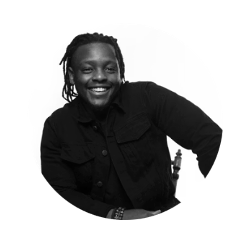
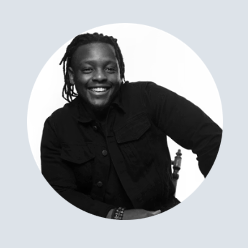
Fix team photos: uniform circles, center Craig, board Read more
Flatten cutout PNGs, crop all portraits as circles, recenter Craig’s
asset, and collapse Board Members behind a Read more toggle.

diff --git a/gcc-site/src/components/TeamSection.tsx b/gcc-site/src/components/TeamSection.tsx
@@ -1,0 +1,134 @@
+"use client";
+
+import Image from "next/image";
+import { useId, useState, type CSSProperties } from "react";
+import type { TeamMember } from "@/lib/content";
+
+function LinkedInIcon() {
+  return (
+    <svg width="14" height="14" viewBox="0 0 24 24" aria-hidden="true">
+      <rect x="2" y="2" width="20" height="20" rx="3" fill="currentColor" />
+      <path
+        fill="#fff"
+        d="M7.2 9.4h2.1v7.2H7.2V9.4Zm1.05-3.4a1.25 1.25 0 1 1 0 2.5 1.25 1.25 0 0 1 0-2.5ZM11.1 9.4h2v1h.03c.28-.53.97-1.1 2-1.1 2.14 0 2.54 1.4 2.54 3.23v4.07h-2.1v-3.6c0-.86-.02-1.96-1.2-1.96-1.2 0-1.38.93-1.38 1.9v3.66h-2.1V9.4Z"
+      />
+    </svg>
+  );
+}
+
+function photoStyle(name: string): CSSProperties {
+  if (name === "Craig Shalekoff") {
+    return {
+      objectFit: "cover",
+      objectPosition: "center center",
+      filter: "grayscale(1)",
+    };
+  }
+  if (name === "Lizelle McLaughlin" || name === "Heather Wallace") {
+    return {
+      objectFit: "cover",
+      objectPosition: "center 18%",
+      filter: "grayscale(1)",
+    };
+  }
+  if (name === "Frank Kilbourn") {
+    return {
+      objectFit: "cover",
+      objectPosition: "center 30%",
+      filter: "grayscale(1)",
+    };
+  }
+  return {
+    objectFit: "cover",
+    objectPosition: "center top",
+    filter: "grayscale(1)",
+  };
+}
+
+function MemberCard({ member }: { member: TeamMember }) {
+  return (
+    <div>
+      <div className="team-card__photo">
+        <Image src={member.img} alt={member.name} fill sizes="108px" style={photoStyle(member.name)} />
+      </div>
+      <div className="team-card__name-row">
+        <div className="team-card__name">{member.name}</div>
+        {member.linkedin ? (
+          <a
+            className="team-linkedin"
+            href={member.linkedin}
+            target="_blank"
+            rel="noopener noreferrer"
+            aria-label={`${member.name} on LinkedIn`}
+          >
+            <LinkedInIcon />
+          </a>
+        ) : null}
+      </div>
+      <div className="mono team-card__role">{member.role}</div>
+    </div>
+  );
+}
+
+function BoardAccordion({ members }: { members: TeamMember[] }) {
+  const [open, setOpen] = useState(false);
+  const panelId = useId();
+
+  return (
+    <div className="rise" style={{ marginTop: 8 }}>
+      <button
+        type="button"
+        className="board-toggle"
+        aria-expanded={open}
+        aria-controls={panelId}
+        onClick={() => setOpen((v) => !v)}
+      >
+        <span className="mono team-group-label" style={{ margin: 0 }}>
+          Board Members
+        </span>
+        <span className="mono board-toggle__action">
+          {open ? "Hide" : "Read more"}
+          <span className={`board-toggle__chevron${open ? " is-open" : ""}`} aria-hidden />
+        </span>
+      </button>
+
+      <div
+        id={panelId}
+        role="region"
+        aria-hidden={!open}
+        className={`board-panel${open ? " is-open" : ""}`}
+      >
+        <div className="team-grid" style={{ paddingTop: 18 }}>
+          {members.map((m) => (
+            <MemberCard key={`board-${m.name}`} member={m} />
+          ))}
+        </div>
+      </div>
+    </div>
+  );
+}
+
+export default function TeamSection({
+  groups,
+}: {
+  groups: { title: string; members: TeamMember[] }[];
+}) {
+  const visible = groups.filter((g) => g.title !== "Board Members");
+  const board = groups.find((g) => g.title === "Board Members");
+
+  return (
+    <>
+      {visible.map((group) => (
+        <div key={group.title}>
+          <p className="mono team-group-label rise">{group.title}</p>
+          <div className="team-grid rise">
+            {group.members.map((m) => (
+              <MemberCard key={`${group.title}-${m.name}`} member={m} />
+            ))}
+          </div>
+        </div>
+      ))}
+      {board ? <BoardAccordion members={[...board.members]} /> : null}
+    </>
+  );
+}

diff --git a/gcc-site/src/app/page.tsx b/gcc-site/src/app/page.tsx
@@ -1,5 +1,6 @@
 import Image from "next/image";
 import SaMap from "@/components/SaMap";
+import TeamSection from "@/components/TeamSection";
 import {
   awards,
   benefits,
@@ -26,18 +27,6 @@ import {
   whoBenefits,
   whySa,
 } from "@/lib/content";
-
-function LinkedInIcon() {
-  return (
-    <svg width="14" height="14" viewBox="0 0 24 24" aria-hidden="true">
-      <rect x="2" y="2" width="20" height="20" rx="3" fill="currentColor" />
-      <path
-        fill="#fff"
-        d="M7.2 9.4h2.1v7.2H7.2V9.4Zm1.05-3.4a1.25 1.25 0 1 1 0 2.5 1.25 1.25 0 0 1 0-2.5ZM11.1 9.4h2v1h.03c.28-.53.97-1.1 2-1.1 2.14 0 2.54 1.4 2.54 3.23v4.07h-2.1v-3.6c0-.86-.02-1.96-1.2-1.96-1.2 0-1.38.93-1.38 1.9v3.66h-2.1V9.4Z"
-      />
-    </svg>
-  );
-}
 
 function SectionLabel({ children, onDark = false }: { children: React.ReactNode; onDark?: boolean }) {
   return (
@@ -304,45 +293,7 @@ export default function HomePage() {
               including three successful companies later acquired by international groups.
             </Lead>
 
-            {teamGroups.map((group) => (
-              <div key={group.title}>
-                <p className="mono team-group-label rise">{group.title}</p>
-                <div className="team-grid rise">
-                  {group.members.map((m) => (
-                    <div key={`${group.title}-${m.name}`}>
-                      <div className="team-card__photo">
-                        <Image
-                          src={m.img}
-                          alt={m.name}
-                          fill
-                          sizes="108px"
-                          style={{
-                            objectFit: "cover",
-                            objectPosition: "center top",
-                            filter: "grayscale(1)",
-                          }}
-                        />
-                      </div>
-                      <div className="team-card__name-row">
-                        <div className="team-card__name">{m.name}</div>
-                        {m.linkedin ? (
-                          <a
-                            className="team-linkedin"
-                            href={m.linkedin}
-                            target="_blank"
-                            rel="noopener noreferrer"
-                            aria-label={`${m.name} on LinkedIn`}
-                          >
-                            <LinkedInIcon />
-                          </a>
-                        ) : null}
-                      </div>
-                      <div className="mono team-card__role">{m.role}</div>
-                    </div>
-                  ))}
-                </div>
-              </div>
-            ))}
+            <TeamSection groups={[...teamGroups]} />
           </div>
         </section>
 

diff --git a/gcc-site/src/app/globals.css b/gcc-site/src/app/globals.css
@@ -300,8 +300,65 @@ button {
   aspect-ratio: 1;
   margin-inline: auto;
   overflow: hidden;
-  border-radius: 18px;
+  border-radius: 50%;
   background: #dde3e9;
+}
+
+.board-toggle {
+  display: flex;
+  width: 100%;
+  align-items: center;
+  justify-content: space-between;
+  gap: 16px;
+  margin-top: 40px;
+  padding: 16px 0;
+  border: none;
+  border-top: 1px solid rgba(14, 27, 42, 0.1);
+  border-bottom: 1px solid rgba(14, 27, 42, 0.1);
+  background: transparent;
+  cursor: pointer;
+  text-align: left;
+  color: inherit;
+}
+
+.board-toggle__action {
+  font-size: 11px;
+  letter-spacing: 0.1em;
+  color: rgba(14, 27, 42, 0.5);
+  display: inline-flex;
+  align-items: center;
+  gap: 8px;
+  text-transform: uppercase;
+}
+
+.board-toggle__chevron {
+  display: inline-block;
+  width: 0;
+  height: 0;
+  border-left: 5px solid transparent;
+  border-right: 5px solid transparent;
+  border-top: 6px solid rgba(14, 27, 42, 0.45);
+  transition: transform 0.25s ease;
+}
+
+.board-toggle__chevron.is-open {
+  transform: rotate(180deg);
+}
+
+.board-panel {
+  overflow: hidden;
+  max-height: 0;
+  opacity: 0;
+  transition:
+    max-height 0.45s cubic-bezier(0.16, 0.84, 0.44, 1),
+    opacity 0.35s ease;
+  pointer-events: none;
+}
+
+.board-panel.is-open {
+  max-height: 900px;
+  opacity: 1;
+  pointer-events: auto;
 }
 
 .team-card__name-row {
